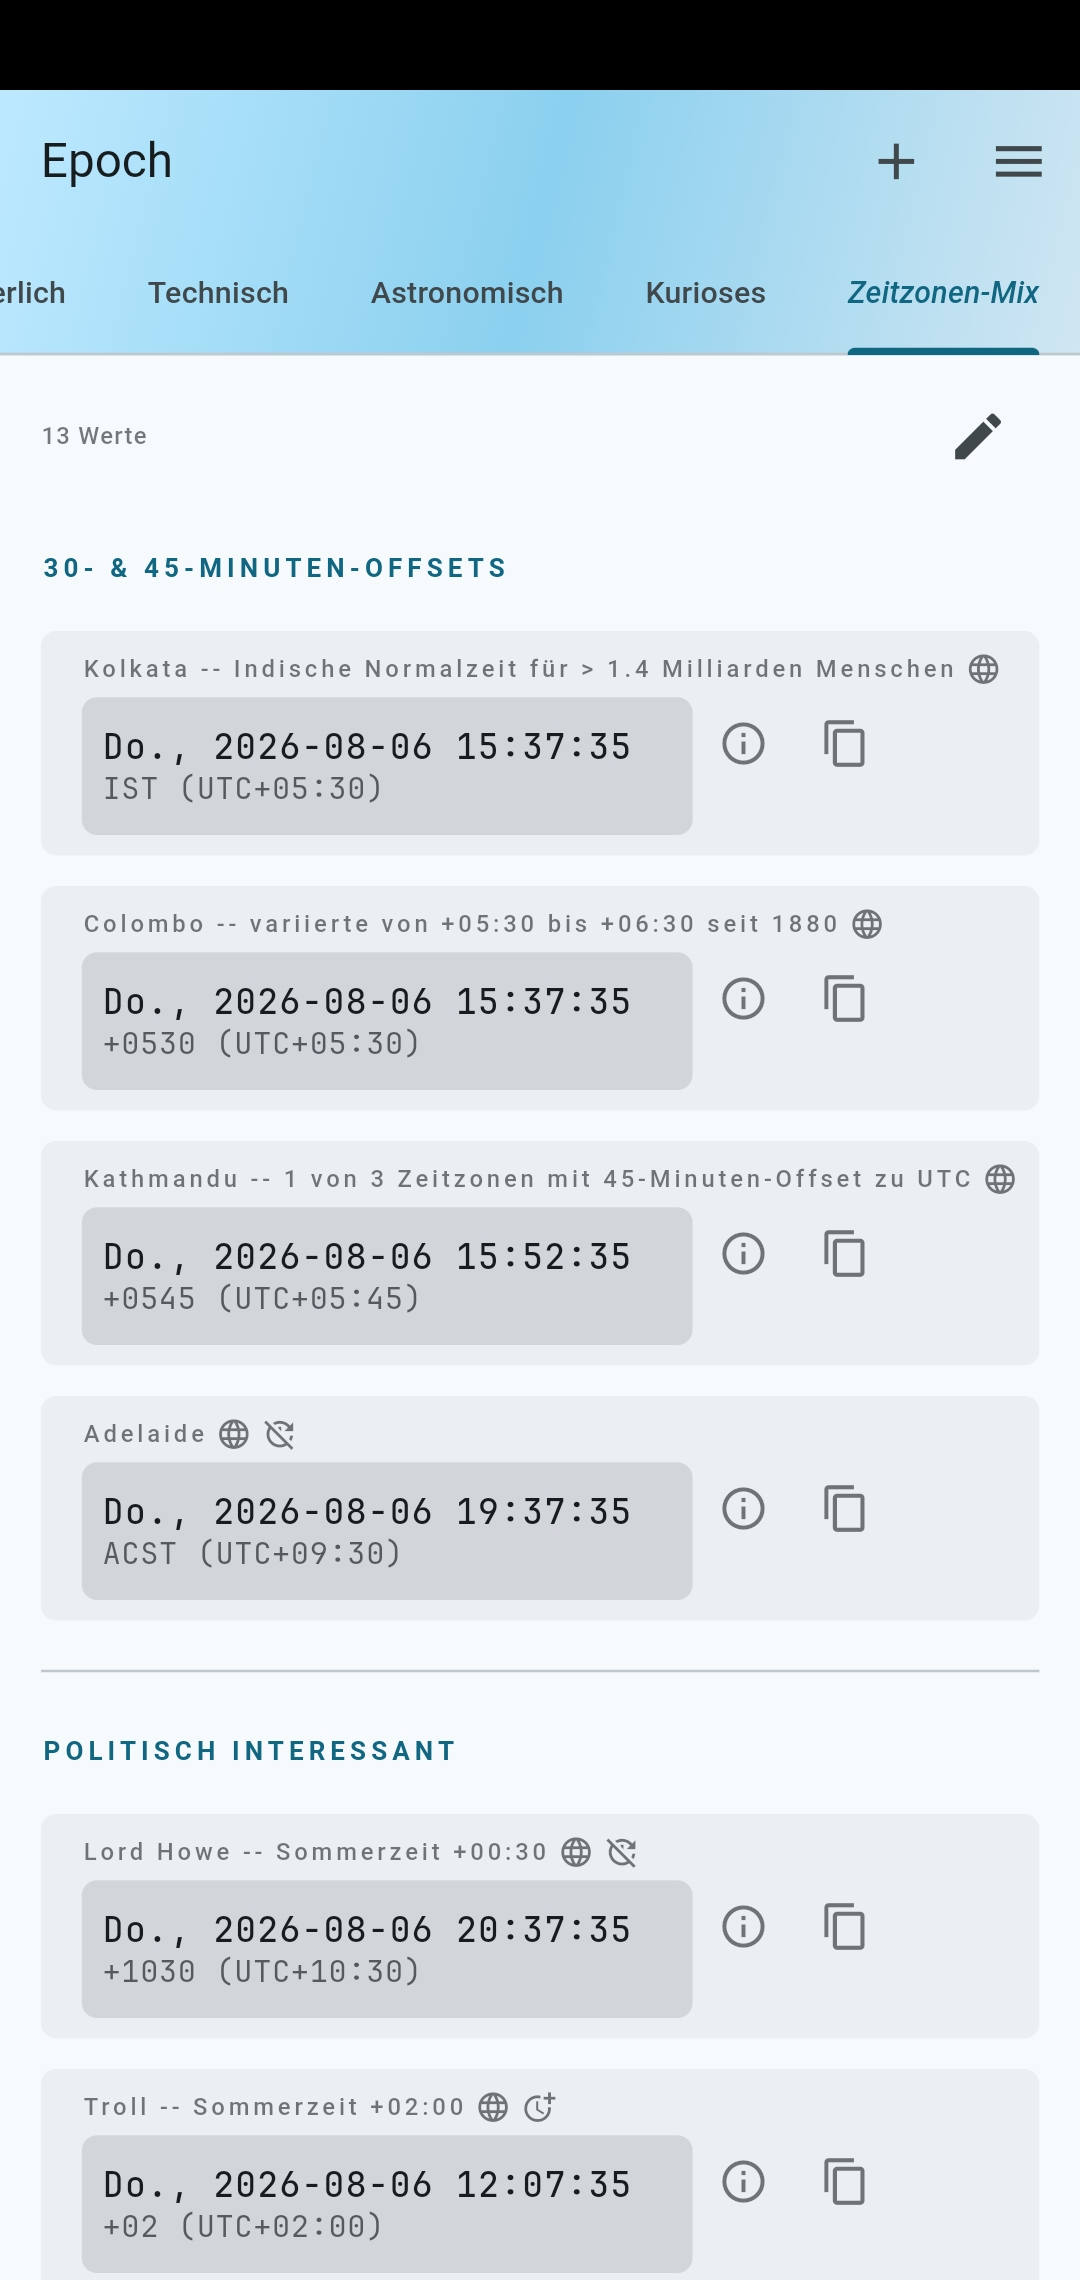
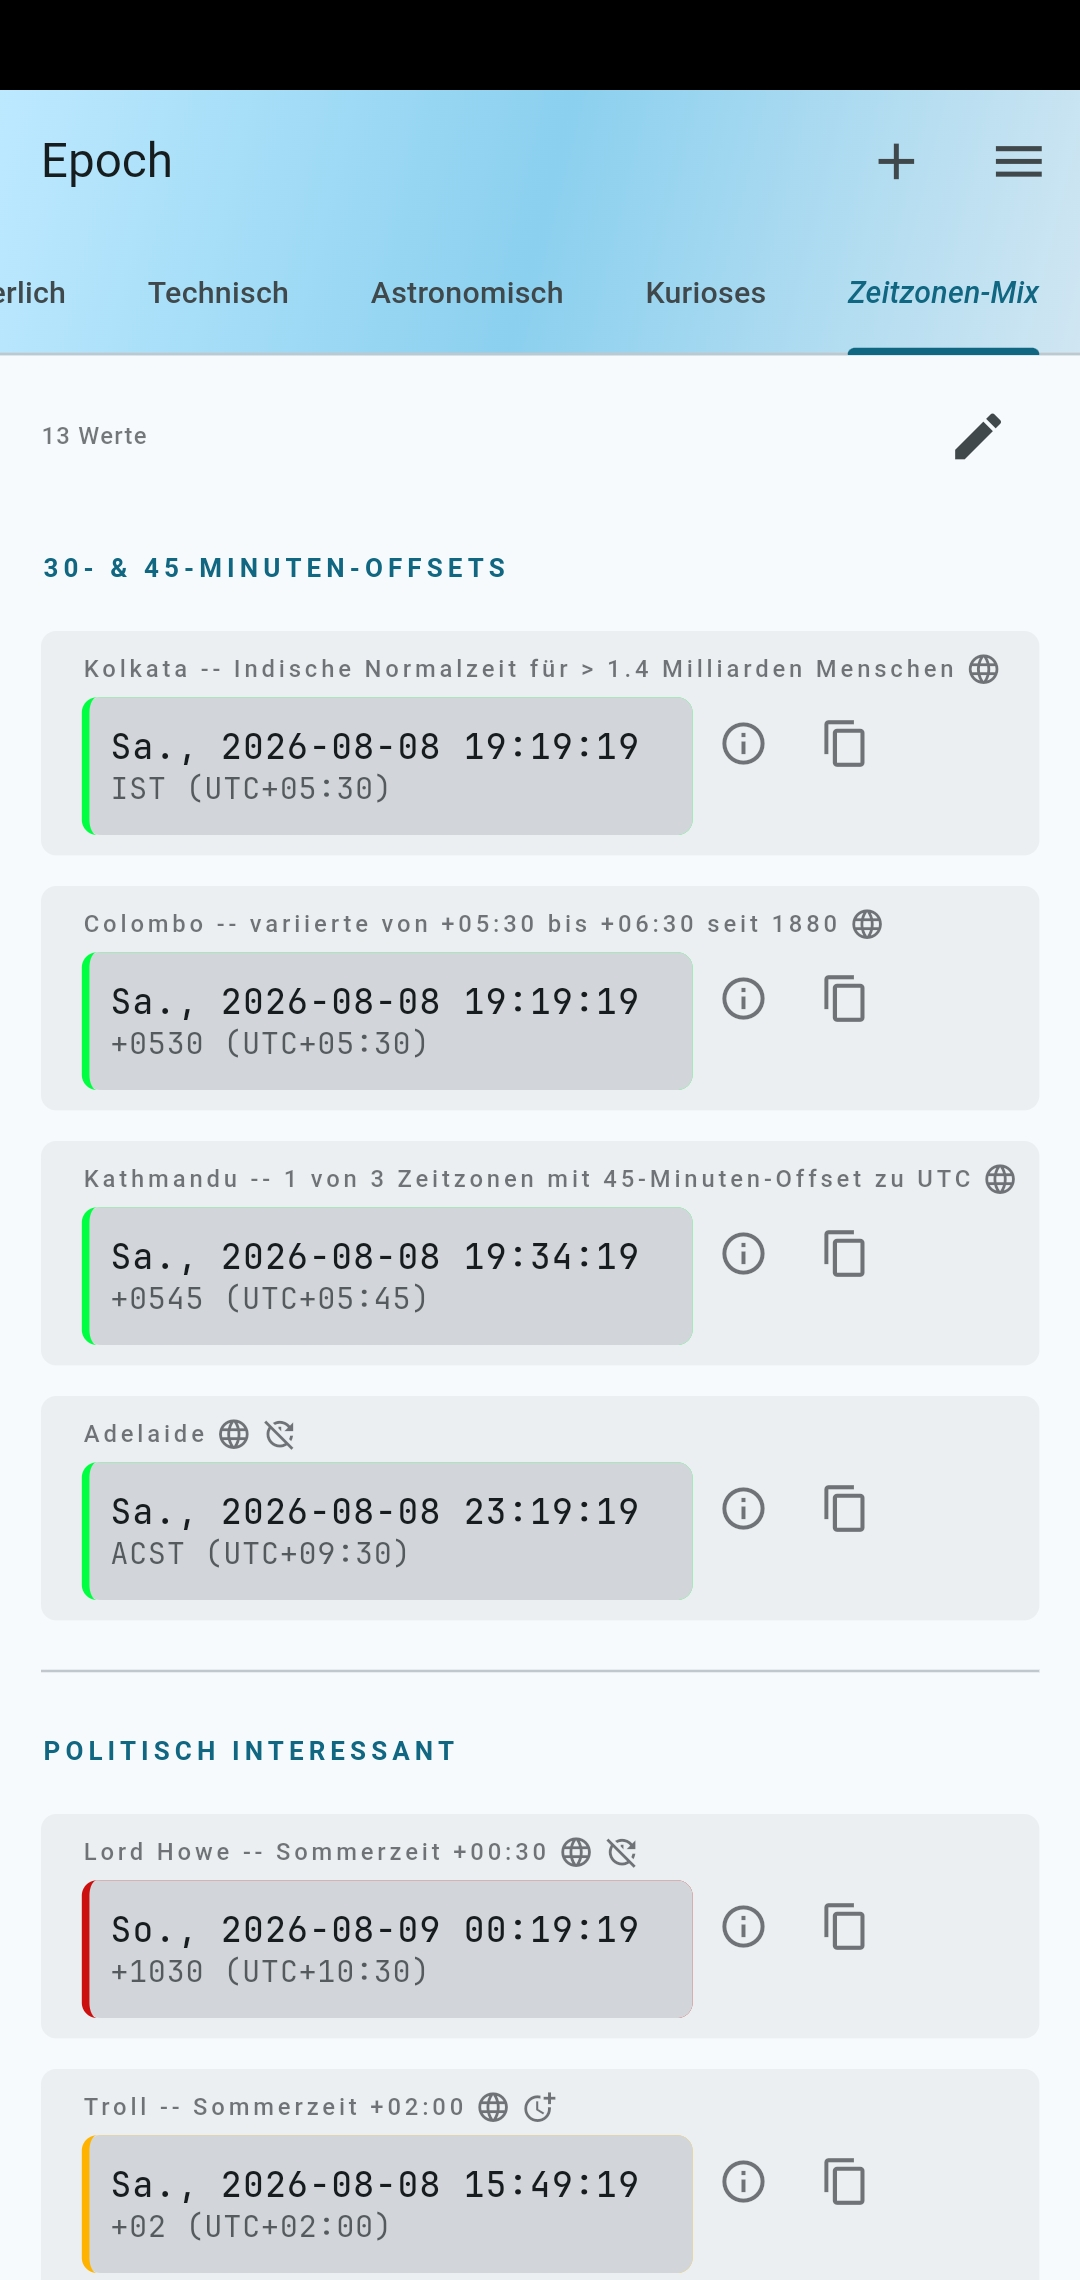
Release 1.4.0 - includes new epoch_settings_world_clock.json for DE and EN - new screenshots across the board (regular as well as for example_configs)

diff --git a/README.md b/README.md
@@ -84,12 +84,12 @@ to assemble exactly the time display you need — and nothing you don't.
 > [!TIP]
 > Check out the `example_configs` folder with (partly) localized pre-made configurations 
 > that you might like to fine-tune for your needs. \
-> It also has a [config manual](https://github.com/RealNoitasinagro/epoch/blob/develop/example_configs/CONFIG_MANUAL.md) for reference, as well as screenshots.
+> It also has a [config manual](https://github.com/RealNoitasinagro/epoch/blob/main/example_configs/CONFIG_MANUAL.md) for reference, as well as screenshots (see next section).
 
 
 ## Screenshots
 
-Android screenshots are in `fastlane/metadata/android/{en-US,de-DE}`. \
+Android screenshots are in `fastlane/metadata/android/{en-US,de-DE}/images/phoneScreenshots/`. \
 There are slight differences between the two sets to highlight different aspects and details.
 
 <details>
@@ -134,16 +134,20 @@ There are slight differences between the two sets to highlight different aspects
 
 </details>
 
-Additional screenshots for `example_configs`:
+Additional screenshots in `example_configs/{de-DE,en-US}/screenshots/`:
 
 <details>
 <summary>Click to expand (English)</summary>
 
 <p>
-  <img src="https://raw.githubusercontent.com/RealNoitasinagro/epoch/develop/example_configs/en-US/screenshots/epoch_settings_home.png" width="180" alt="en epoch_settings_home.json">
-  <img src="https://raw.githubusercontent.com/RealNoitasinagro/epoch/develop/example_configs/en-US/screenshots/epoch_settings_spaceflight.png" width="180" alt="en epoch_settings_spaceflight.json">
-  <img src="https://raw.githubusercontent.com/RealNoitasinagro/epoch/develop/example_configs/en-US/screenshots/epoch_settings_special_timezones.png" width="180" alt="en epoch_settings_special_timezones.json">
-  <img src="https://raw.githubusercontent.com/RealNoitasinagro/epoch/develop/example_configs/en-US/screenshots/epoch_settings_uno.png" width="180" alt="en epoch_settings_uno.json">
+  <img src="https://raw.githubusercontent.com/RealNoitasinagro/epoch/main/example_configs/en-US/screenshots/epoch_settings_home.png" width="180" alt="en epoch_settings_home.json">
+  <img src="https://raw.githubusercontent.com/RealNoitasinagro/epoch/main/example_configs/en-US/screenshots/epoch_settings_spaceflight.png" width="180" alt="en epoch_settings_spaceflight.json">
+  <img src="https://raw.githubusercontent.com/RealNoitasinagro/epoch/main/example_configs/en-US/screenshots/epoch_settings_special_timezones.png" width="180" alt="en epoch_settings_special_timezones.json">
+  <img src="https://raw.githubusercontent.com/RealNoitasinagro/epoch/main/example_configs/en-US/screenshots/epoch_settings_uno.png" width="180" alt="en epoch_settings_uno.json">
+</p>
+
+<p>
+  <img src="https://raw.githubusercontent.com/RealNoitasinagro/epoch/main/example_configs/en-US/screenshots/epoch_settings_world_clock.png" width="180" alt="en epoch_settings_world_clock.json">
 </p>
 
 </details>
@@ -152,10 +156,14 @@ Additional screenshots for `example_configs`:
 <summary>Click to expand (German)</summary>
 
 <p>
-  <img src="https://raw.githubusercontent.com/RealNoitasinagro/epoch/develop/example_configs/de-DE/screenshots/epoch_settings_home.png" width="180" alt="de epoch_settings_home.json">
-  <img src="https://raw.githubusercontent.com/RealNoitasinagro/epoch/develop/example_configs/de-DE/screenshots/epoch_settings_spaceflight.png" width="180" alt="de epoch_settings_spaceflight.json">
-  <img src="https://raw.githubusercontent.com/RealNoitasinagro/epoch/develop/example_configs/de-DE/screenshots/epoch_settings_special_timezones.png" width="180" alt="de epoch_settings_special_timezones.json">
-  <img src="https://raw.githubusercontent.com/RealNoitasinagro/epoch/develop/example_configs/de-DE/screenshots/epoch_settings_uno.png" width="180" alt="de epoch_settings_uno.json">
+  <img src="https://raw.githubusercontent.com/RealNoitasinagro/epoch/main/example_configs/de-DE/screenshots/epoch_settings_home.png" width="180" alt="de epoch_settings_home.json">
+  <img src="https://raw.githubusercontent.com/RealNoitasinagro/epoch/main/example_configs/de-DE/screenshots/epoch_settings_spaceflight.png" width="180" alt="de epoch_settings_spaceflight.json">
+  <img src="https://raw.githubusercontent.com/RealNoitasinagro/epoch/main/example_configs/de-DE/screenshots/epoch_settings_special_timezones.png" width="180" alt="de epoch_settings_special_timezones.json">
+  <img src="https://raw.githubusercontent.com/RealNoitasinagro/epoch/main/example_configs/de-DE/screenshots/epoch_settings_uno.png" width="180" alt="de epoch_settings_uno.json">
+</p>
+
+<p>
+  <img src="https://raw.githubusercontent.com/RealNoitasinagro/epoch/main/example_configs/de-DE/screenshots/epoch_settings_world_clock.png" width="180" alt="en epoch_settings_world_clock.json">
 </p>
 
 </details>

diff --git a/CHANGELOG.md b/CHANGELOG.md
@@ -6,8 +6,8 @@
 - display the next four clock changes for configured time values with (unpinned) DST in info
 - date and time formats configurable (preset and custom options)
 - day quarter indicator in different colors (on/off-switch in Settings)
-- support for direct config loading on Linux commandline
-- `example_configs` and [config manual](https://github.com/RealNoitasinagro/epoch/blob/develop/example_configs/CONFIG_MANUAL.md) on GitHub
+- support for direct config loading on Linux command line
+- `example_configs` and [config manual](https://github.com/RealNoitasinagro/epoch/blob/main/example_configs/CONFIG_MANUAL.md) on GitHub
 
 ### Changed
 - a few common timezone abbreviations localized for German (MEZ, MESZ, OEZ, OESZ, WEZ, WESZ)
